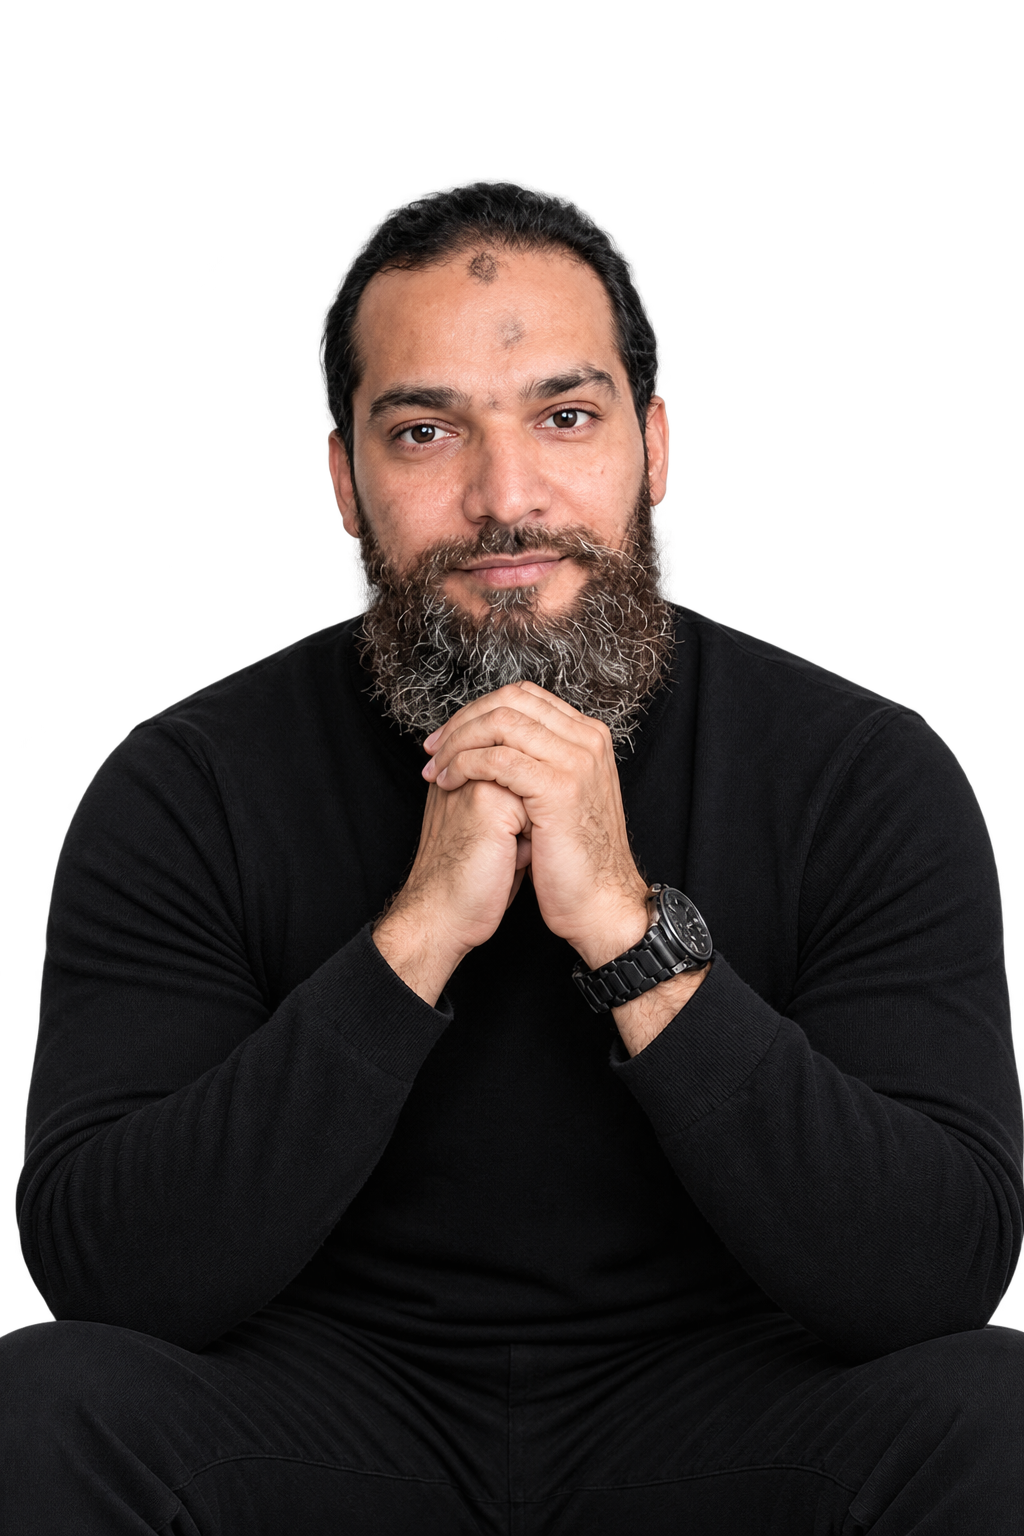
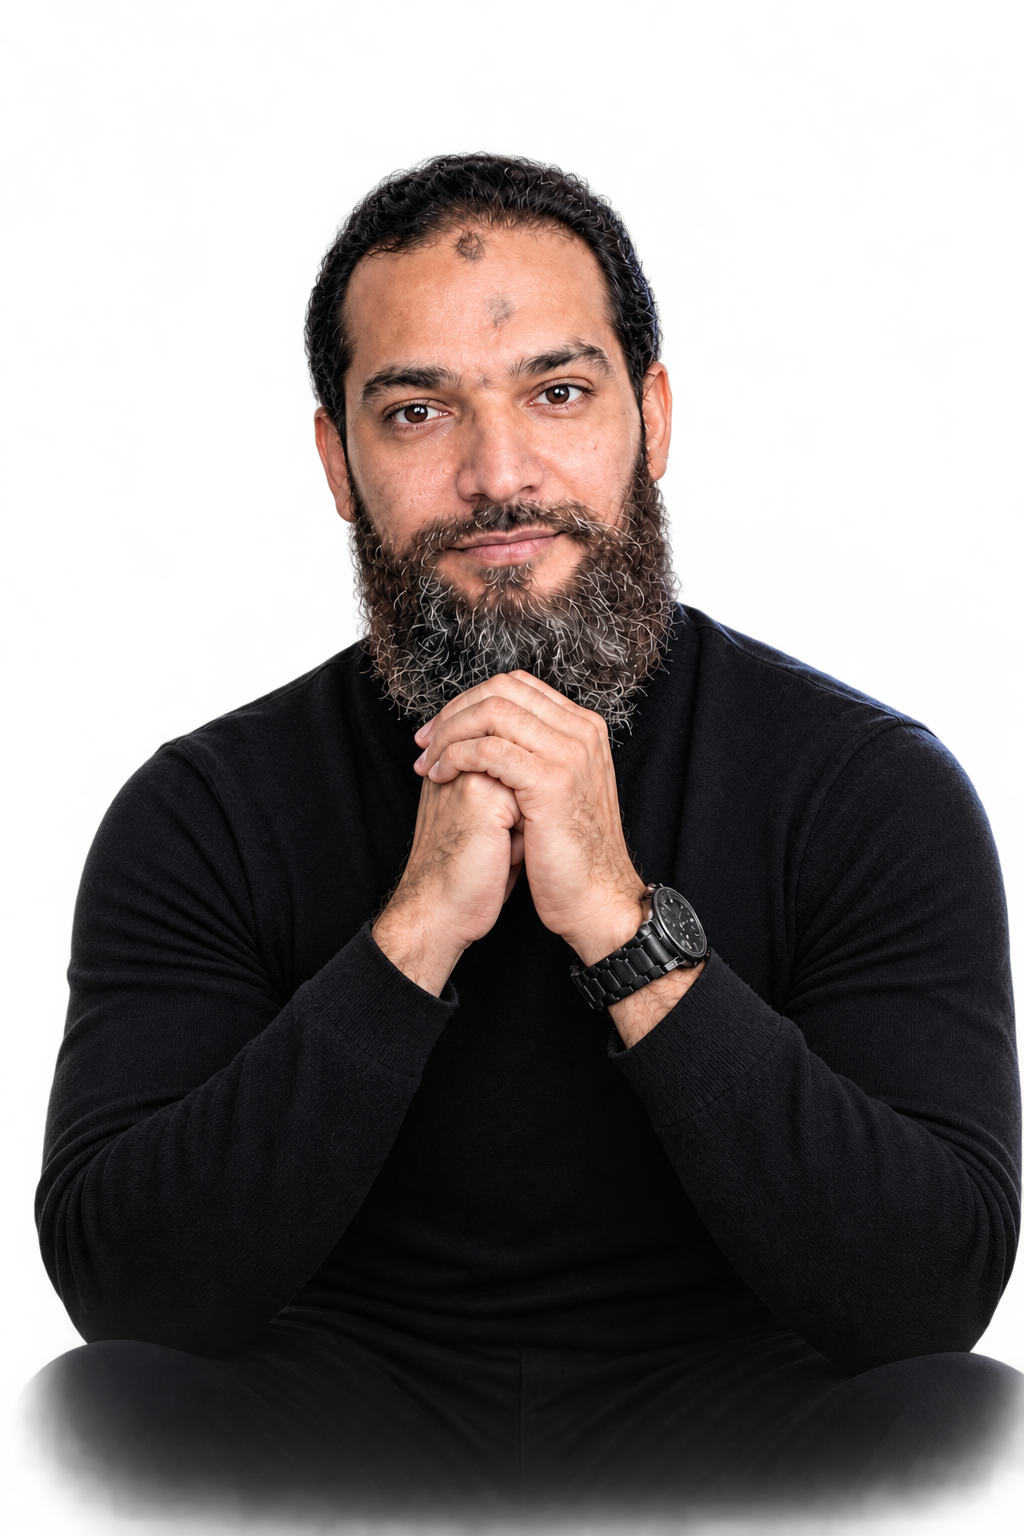
update

diff --git a/components/CTA.tsx b/components/CTA.tsx
@@ -37,15 +37,27 @@ export default function CTA() {
 
       </div>
 
-      <div className="person-wrapper">
+      <div className="relative overflow-hidden  person-wrapper">
+      <img
+        src="/zubair.png"
+        alt="Portrait"
+    className="w-full drop-shadow-[0_10px_25px_rgba(0,0,0,0.18)]"
+      />
+
+      {/* White bottom fade */}
+      {/* <div className="absolute inset-x-0 bottom-0 h-48 bg-gradient-to-t from-white via-white/90 to-transparent" /> */}
+    </div>
+
+      {/* <div className="person-wrapper">
 
         <img
           src="/zubair.png"
           alt="Digital marketing expert"
           className="person"
         />
+      <div className="absolute inset-x-0 bottom-0 h-40 bg-gradient-to-t from-black to-transparent" />
 
-      </div>
+      </div> */}
 
     </section>
   );
